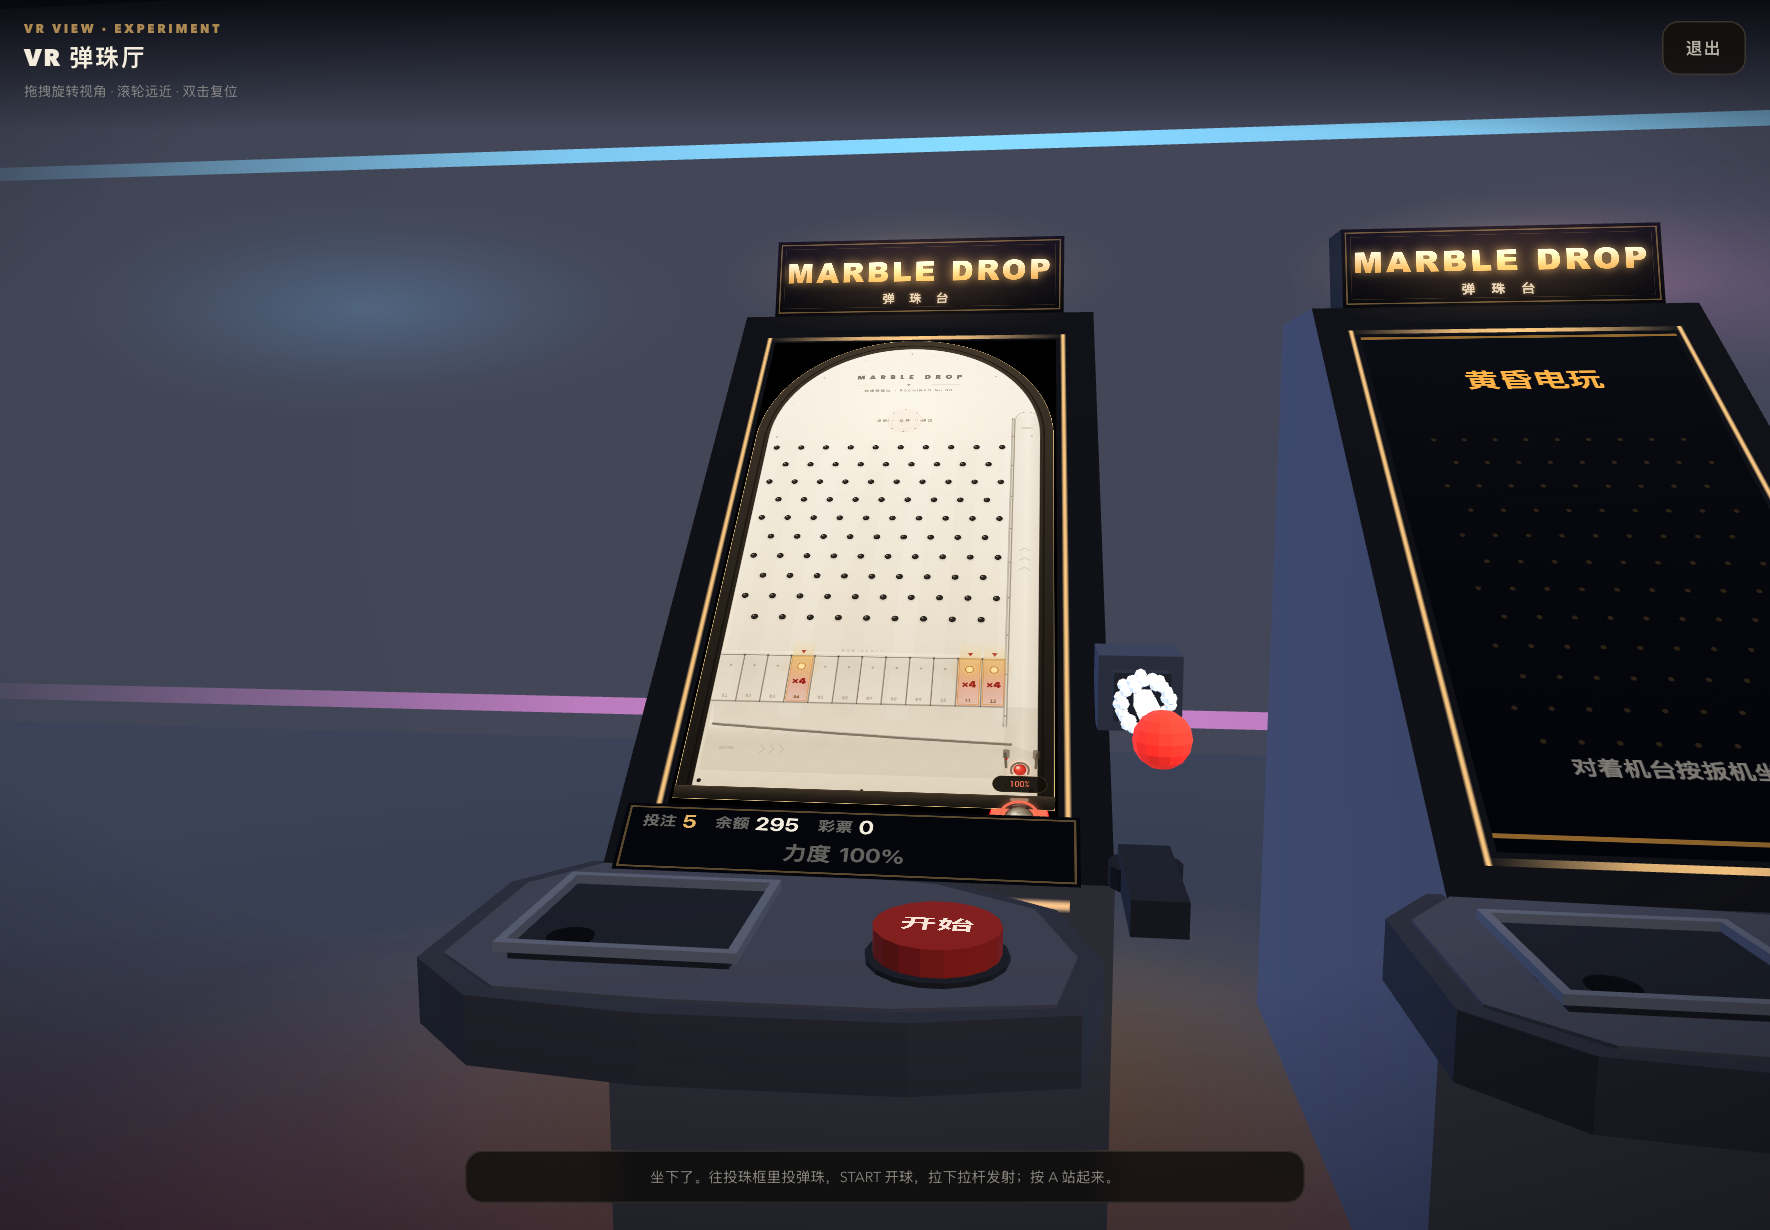
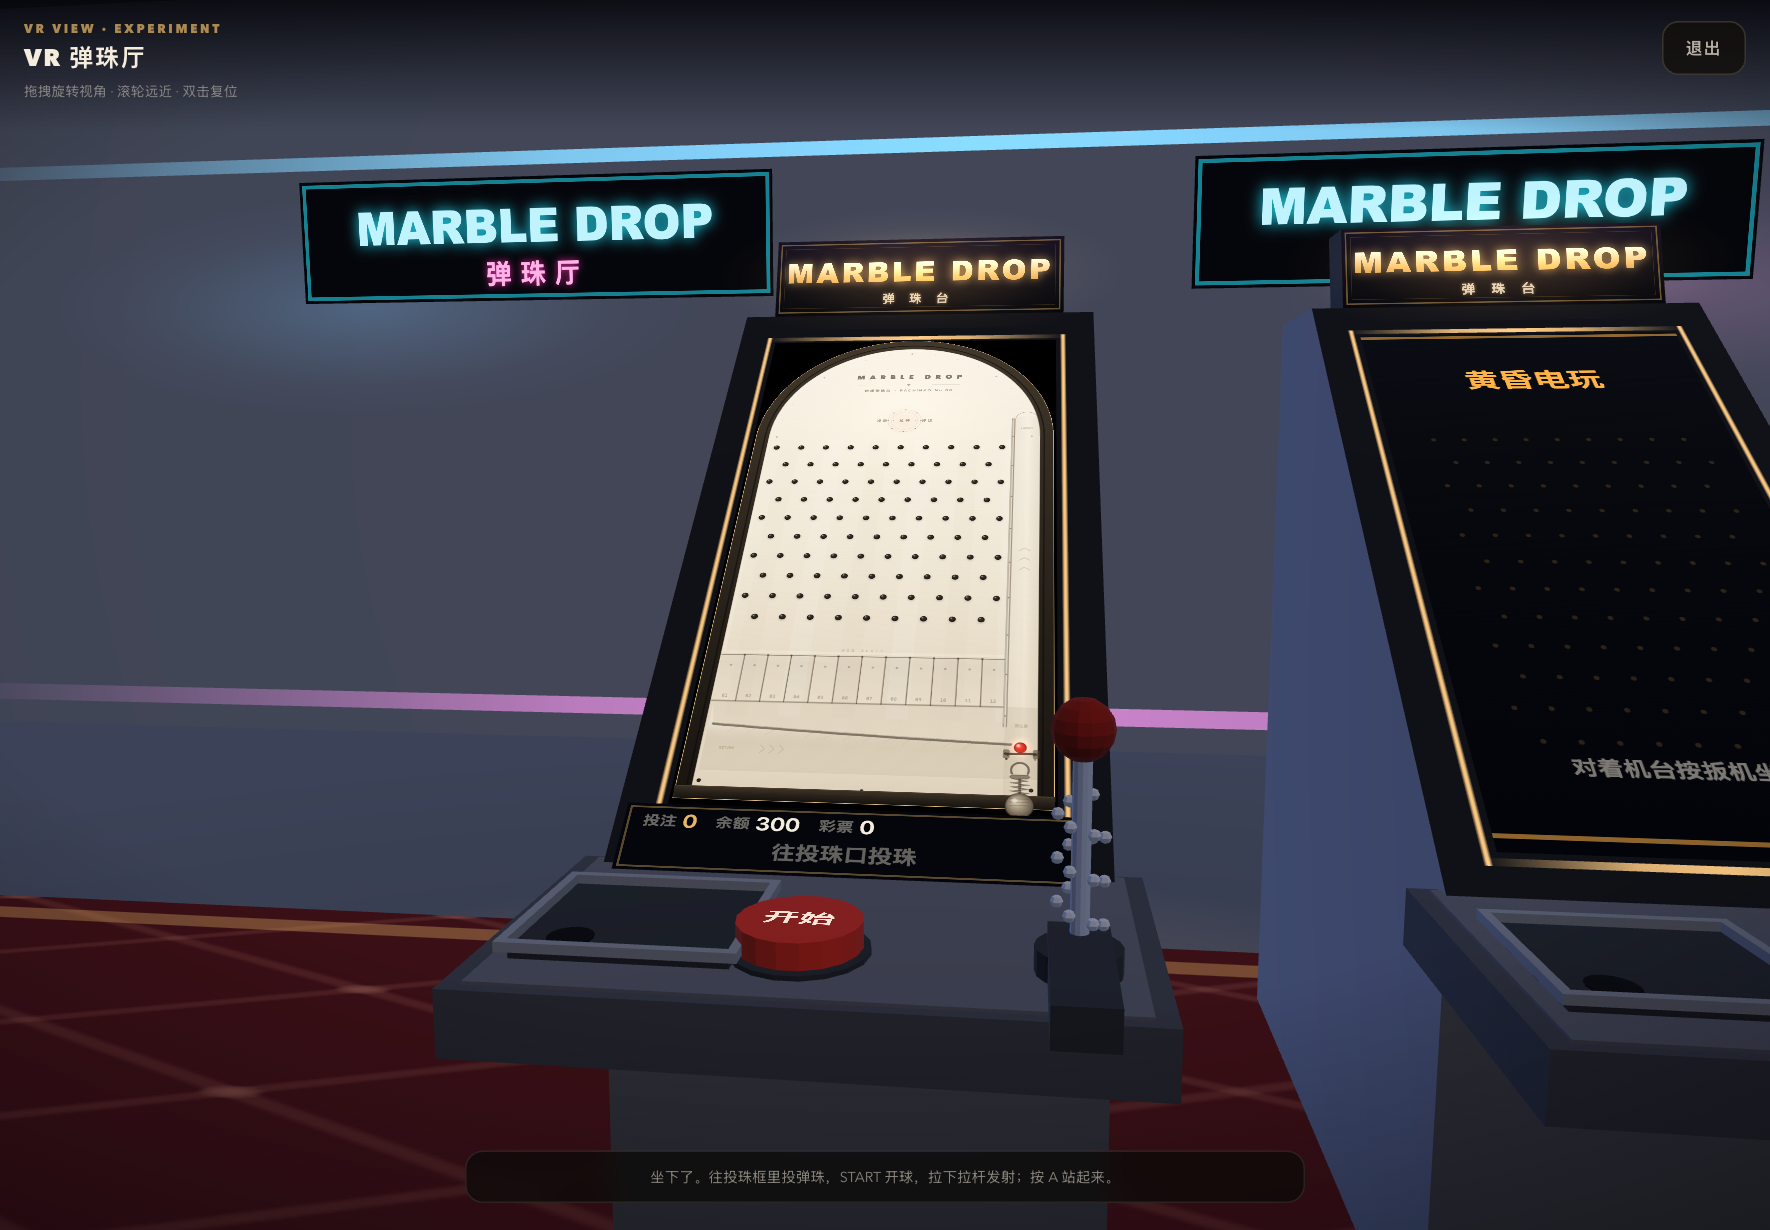
revert(vr): 拉杆改回竖直下压，方形操作台；补地毯与霓虹灯箱

diff --git a/src/vr/scene.js b/src/vr/scene.js
@@ -67,17 +67,10 @@ const DECK = {
 /* Outline of the deck, taken from the sketch: rounded on the left where the
    marble frame sits, tapering to the right where the launch lever stands. */
 const DECK_PLAN = [
-  [-0.38, 0.58],
-  [-0.06, 0.58],
-  [0.14, 0.61],
-  [0.28, 0.7],
-  [0.33, 0.86],
-  [0.3, 1.0],
-  [0.12, 1.04],
-  [-0.16, 1.05],
-  [-0.36, 1.03],
-  [-0.46, 0.94],
-  [-0.46, 0.68],
+  [-0.4, 0.56],
+  [0.4, 0.56],
+  [0.4, 1.02],
+  [-0.4, 1.02],
 ];
 
 /* Exchange kiosk: a room-level prop with its own local space (origin at the
@@ -117,19 +110,19 @@ const DECK_COLORS = {
 /* The deck only has the three controls from the reference sketch:
    marble frame, start button, launch lever. */
 const DECK_BUTTONS = [
-  { id: "start", x: 0.14, z: 0.88, radius: 0.075, height: 0.032, color: DECK_COLORS.start, hit: 0.1 },
+  { id: "start", x: -0.02, z: 0.88, radius: 0.075, height: 0.032, color: DECK_COLORS.start, hit: 0.1 },
 ];
 
-/* Spring plunger hanging off the display panel's lower-right corner. The
-   control deck is cut away underneath it, exactly like the reference sketch. */
+/* Vertical plunger standing on the right side of the square control deck.
+   Grab the ball and press it down; release to launch. */
 const LEVER = {
-  x: 0.4,
-  y: 0.94,
-  z: 0.6,
-  mountZ: 0.4,
+  x: 0.3,
+  z: 0.9,
+  baseY: 0.7,
+  restY: 0.98,
   travel: 0.16,
   knobRadius: 0.036,
-  rodRadius: 0.012,
+  rodRadius: 0.011,
   hit: 0.09,
 };
 
@@ -541,6 +534,71 @@ function makeStartLabelTexture() {
   return canvas;
 }
 
+function makeCarpetTexture() {
+  const canvas = document.createElement("canvas");
+  canvas.width = 512;
+  canvas.height = 512;
+  const ctx = canvas.getContext("2d");
+
+  ctx.fillStyle = "#3a0f16";
+  ctx.fillRect(0, 0, 512, 512);
+
+  // Diamond lattice.
+  ctx.strokeStyle = "rgba(255, 180, 150, 0.10)";
+  ctx.lineWidth = 3;
+  for (let i = -512; i < 512; i += 64) {
+    ctx.beginPath();
+    ctx.moveTo(i, 0);
+    ctx.lineTo(i + 512, 512);
+    ctx.stroke();
+    ctx.beginPath();
+    ctx.moveTo(i + 512, 0);
+    ctx.lineTo(i, 512);
+    ctx.stroke();
+  }
+
+  // Dots at the lattice crossings.
+  ctx.fillStyle = "rgba(255, 200, 160, 0.12)";
+  for (let y = 0; y < 512; y += 64) {
+    for (let x = 0; x < 512; x += 64) {
+      ctx.beginPath();
+      ctx.arc(x, y, 3, 0, Math.PI * 2);
+      ctx.fill();
+    }
+  }
+
+  // Gold border.
+  ctx.strokeStyle = "rgba(231, 181, 102, 0.35)";
+  ctx.lineWidth = 10;
+  ctx.strokeRect(16, 16, 480, 480);
+  return canvas;
+}
+
+function makeWallSignTexture() {
+  const canvas = document.createElement("canvas");
+  canvas.width = 1024;
+  canvas.height = 256;
+  const ctx = canvas.getContext("2d");
+  ctx.fillStyle = "#05060b";
+  ctx.fillRect(0, 0, 1024, 256);
+  ctx.strokeStyle = "rgba(34, 230, 255, 0.55)";
+  ctx.lineWidth = 8;
+  ctx.strokeRect(10, 10, 1004, 236);
+  ctx.textAlign = "center";
+  ctx.textBaseline = "middle";
+  ctx.font = '800 96px "Arial Black", "Helvetica Neue", Arial, sans-serif';
+  ctx.shadowColor = "rgba(34, 230, 255, 0.9)";
+  ctx.shadowBlur = 30;
+  ctx.fillStyle = "#bff4ff";
+  ctx.fillText("MARBLE DROP", 512, 108);
+  ctx.shadowBlur = 16;
+  ctx.shadowColor = "rgba(255, 47, 179, 0.9)";
+  ctx.font = '700 56px "PingFang SC", "Noto Sans SC", "Microsoft YaHei", sans-serif';
+  ctx.fillStyle = "#ffb3e6";
+  ctx.fillText("弹 珠 厅", 512, 200);
+  return canvas;
+}
+
 function makeShopTexture() {
   const canvas = document.createElement("canvas");
   canvas.width = 512;
@@ -867,6 +925,37 @@ function buildGeometry(gl) {
     ],
   );
 
+  const wallSign = createQuad(
+    gl,
+    [
+      [-3.1, 2.02, -3.14],
+      [-0.9, 2.02, -3.14],
+      [-0.9, 2.56, -3.14],
+      [-3.1, 2.56, -3.14],
+    ],
+    [
+      [0, 0],
+      [1, 0],
+      [1, 1],
+      [0, 1],
+    ],
+  );
+  const wallSign2 = createQuad(
+    gl,
+    [
+      [0.9, 2.02, -3.14],
+      [3.1, 2.02, -3.14],
+      [3.1, 2.56, -3.14],
+      [0.9, 2.56, -3.14],
+    ],
+    [
+      [0, 0],
+      [1, 0],
+      [1, 1],
+      [0, 1],
+    ],
+  );
+
   const wallGlow = createQuad(
     gl,
     [
@@ -1115,10 +1204,10 @@ function buildGeometry(gl) {
   const startLabel = createQuad(
     gl,
     [
-      [0.075, 0.7455, 0.945],
-      [0.205, 0.7455, 0.945],
-      [0.205, 0.7455, 0.815],
-      [0.075, 0.7455, 0.815],
+      [-0.085, 0.7455, 0.945],
+      [0.045, 0.7455, 0.945],
+      [0.045, 0.7455, 0.815],
+      [-0.085, 0.7455, 0.815],
     ],
     [
       [0, 0],
@@ -1202,66 +1291,33 @@ function buildGeometry(gl) {
     );
   }
 
-  /* Plunger hanging off the display panel: bracket + coil are fixed, the
-     shaft and ball slide toward the player. */
-  const leverBracket = createLitMesh(gl, [
-    ...boxPolygons(
-      LEVER.x - 0.06,
-      LEVER.x + 0.06,
-      LEVER.y - 0.055,
-      LEVER.y + 0.055,
-      LEVER.mountZ - 0.06,
-      LEVER.mountZ + 0.06,
-      [0.1, 0.11, 0.145],
-    ),
-    ...boxPolygons(
-      LEVER.x - 0.04,
-      LEVER.x + 0.04,
-      LEVER.y - 0.035,
-      LEVER.y + 0.035,
-      LEVER.mountZ + 0.02,
-      LEVER.mountZ + 0.09,
-      [0.07, 0.08, 0.1],
-    ),
-  ]);
-  /* Helix of small spheres reads as a coil spring from any angle. */
+  /* Vertical plunger: base ring, shaft, coil spring and the red ball. */
+  const leverRod = createLitMesh(
+    gl,
+    cylinderPolygons(LEVER.x, LEVER.baseY + 0.03, LEVER.z, LEVER.rodRadius, LEVER.restY - LEVER.baseY - 0.03, 12, DECK_COLORS.rod),
+  );
   const springPolys = [];
-  const coils = 30;
-  const coilStart = LEVER.mountZ + 0.09;
-  const coilLength = 0.1;
-  for (let step = 0; step < coils; step += 1) {
-    const t = step / coils;
-    const angle = t * Math.PI * 2 * 4;
+  const coilRings = 18;
+  for (let step = 0; step < coilRings; step += 1) {
+    const t = step / coilRings;
+    const angle = t * Math.PI * 2 * 3;
     springPolys.push(
       ...spherePolygons(
-        LEVER.x + Math.cos(angle) * 0.034,
-        LEVER.y + Math.sin(angle) * 0.034,
-        coilStart + t * coilLength,
-        0.009,
+        LEVER.x + Math.cos(angle) * 0.026,
+        LEVER.baseY + 0.06 + t * 0.15,
+        LEVER.z + Math.sin(angle) * 0.026,
+        0.0075,
         4,
         6,
-        [0.78, 0.8, 0.84],
+        [0.24, 0.255, 0.3],
       ),
     );
   }
   const leverSpring = createLitMesh(gl, springPolys);
-  const leverRod = createLitMesh(
-    gl,
-    boxPolygons(
-      LEVER.x - LEVER.rodRadius,
-      LEVER.x + LEVER.rodRadius,
-      LEVER.y - LEVER.rodRadius,
-      LEVER.y + LEVER.rodRadius,
-      0.26,
-      LEVER.z,
-      DECK_COLORS.rod,
-    ),
-  );
   const leverKnob = createLitMesh(
     gl,
-    spherePolygons(LEVER.x, LEVER.y, LEVER.z, LEVER.knobRadius, 8, 14, DECK_COLORS.knob),
+    spherePolygons(LEVER.x, LEVER.restY, LEVER.z, LEVER.knobRadius, 8, 14, DECK_COLORS.knob),
   );
-
   /* Status panel leaning against the lower bezel, angled at the player. */
   const hud = createQuad(
     gl,
@@ -1290,6 +1346,8 @@ function buildGeometry(gl) {
     carpet,
     wallGlow,
     wallGlow2,
+    wallSign,
+    wallSign2,
     neonBar,
     neonBar2,
     screen,
@@ -1303,7 +1361,6 @@ function buildGeometry(gl) {
     buttonCaps,
     leverRod,
     leverKnob,
-    leverBracket,
     leverSpring,
     hud,
     stool,
@@ -1521,7 +1578,7 @@ export function createScene(canvas, boardCanvas) {
       center: [button.x, DECK.top + 0.02, button.z],
       radius: button.hit,
     })),
-    { id: "lever", center: [LEVER.x, LEVER.y, LEVER.z], radius: LEVER.hit },
+    { id: "lever", center: [LEVER.x, LEVER.restY, LEVER.z], radius: LEVER.hit },
     { id: "feeder", center: [FEEDER.x, FEEDER.y + 0.02, FEEDER.z], radius: FEEDER.hit },
     { id: "stool", center: [STOOL.x, STOOL.seatY, STOOL.z], radius: STOOL.hit },
   ];
@@ -1542,7 +1599,7 @@ export function createScene(canvas, boardCanvas) {
     if (!leverHeld && leverPull > 0.0005) {
       leverPull += (0 - leverPull) * Math.min(1, dt * 16);
       if (leverPull < 0.001) leverPull = 0;
-      leverControl.center[2] = LEVER.z + leverPull;
+      leverControl.center[1] = LEVER.restY - leverPull;
     }
     for (let i = marbles.length - 1; i >= 0; i -= 1) {
       const marble = marbles[i];
@@ -1576,7 +1633,7 @@ export function createScene(canvas, boardCanvas) {
   function setLeverPull(pull) {
     leverHeld = true;
     leverPull = Math.max(0, Math.min(LEVER.travel, pull));
-    leverControl.center[2] = LEVER.z + leverPull;
+    leverControl.center[1] = LEVER.restY - leverPull;
   }
 
   function releaseLever() {
@@ -1691,6 +1748,8 @@ export function createScene(canvas, boardCanvas) {
   const marqueeTexture = createTexture(gl, makeMarqueeTexture());
   const refreshTexture = createTexture(gl, makeRefreshTexture());
   const startLabelTexture = createTexture(gl, makeStartLabelTexture());
+  const carpetTexture = createTexture(gl, makeCarpetTexture());
+  const wallSignTexture = createTexture(gl, makeWallSignTexture());
   const shopCanvas = makeShopTexture();
   const shopCtx = shopCanvas.getContext("2d");
   const shopTexture = createTexture(gl, shopCanvas);
@@ -1822,7 +1881,9 @@ export function createScene(canvas, boardCanvas) {
     beginLit(projection, view, activeModel, eye);
     drawLit(geometry.floor);
     drawLit(geometry.room);
-    drawTextured(projection, view, geometry.carpet, glowTexture, activeModel, [0.45, 0.12, 0.16], 0.55, "alpha");
+    drawTextured(projection, view, geometry.carpet, carpetTexture, activeModel, [1, 1, 1], 1);
+    drawTextured(projection, view, geometry.wallSign, wallSignTexture, activeModel, [1, 1, 1], 1);
+    drawTextured(projection, view, geometry.wallSign2, wallSignTexture, activeModel, [1, 1, 1], 1);
     drawTextured(projection, view, geometry.wallGlow, glowTexture, activeModel, [0.35, 0.75, 1.0], 0.16, "additive");
     drawTextured(projection, view, geometry.wallGlow2, glowTexture, activeModel, [1.0, 0.45, 0.8], 0.14, "additive");
     drawTextured(projection, view, geometry.ceilingLamp, stripTexture, activeModel, [1.0, 0.96, 0.88], 0.85, "additive");
@@ -1861,10 +1922,9 @@ export function createScene(canvas, boardCanvas) {
         drawLit(geometry.buttonCaps[button.id], live ? tintFor(button.id) : dim);
       }
       const pull = live ? leverPull : 0;
-      drawLit(geometry.leverBracket);
       drawLit(geometry.leverSpring);
-      drawLit(geometry.leverRod, live ? tintFor("lever") : dim, [0, 0, pull]);
-      drawLit(geometry.leverKnob, live ? tintFor("lever") : dim, [0, 0, pull]);
+      drawLit(geometry.leverRod, live ? tintFor("lever") : dim, [0, -pull, 0]);
+      drawLit(geometry.leverKnob, live ? tintFor("lever") : dim, [0, -pull, 0]);
       const stoolHover = hoverId === "stool" && hoverIndex === (cabinet.index ?? index);
       drawLit(geometry.stool, stoolHover ? [1.9, 1.75, 1.5] : null);
 

diff --git a/src/vr/viewer.js b/src/vr/viewer.js
@@ -233,18 +233,15 @@ function pickControl(ray) {
   return scene.hitTest(local.origin, local.direction);
 }
 
-/**
- * Z where the ray crosses the plane of the plunger knob. Pulling the hand back
- * (or dragging the mouse down in the preview) increases this value.
- */
+/** Height where the ray crosses the plunger's vertical plane. */
 function leverPullReference(ray) {
   const local = toLocal(ray);
   if (!local) return null;
-  const dy = local.direction[1];
-  if (Math.abs(dy) < 0.0001) return null;
-  const t = (scene.lever.y - local.origin[1]) / dy;
+  const dz = local.direction[2];
+  if (Math.abs(dz) < 0.0001) return null;
+  const t = (scene.lever.z - local.origin[2]) / dz;
   if (!Number.isFinite(t) || t <= 0) return null;
-  return local.origin[2] + local.direction[2] * t;
+  return local.origin[1] + local.direction[1] * t;
 }
 
 function trigger(id) {
@@ -285,7 +282,7 @@ function press(source, ray) {
       engineApi.leverCancel();
       return false;
     }
-    leverGrab = { z: reference };
+    leverGrab = { y: reference };
     scene.setLeverPull(0);
   } else if (id === "end") {
     const now = performance.now();
@@ -325,7 +322,7 @@ function dragLever(ray) {
   if (pressedId !== "lever" || !leverGrab) return;
   const reference = leverPullReference(ray);
   if (reference === null) return;
-  const pull = clamp(reference - leverGrab.z, 0, scene.lever.travel);
+  const pull = clamp(leverGrab.y - reference, 0, scene.lever.travel);
   scene.setLeverPull(pull);
   engineApi.leverPull(pull / scene.lever.travel);
 }
